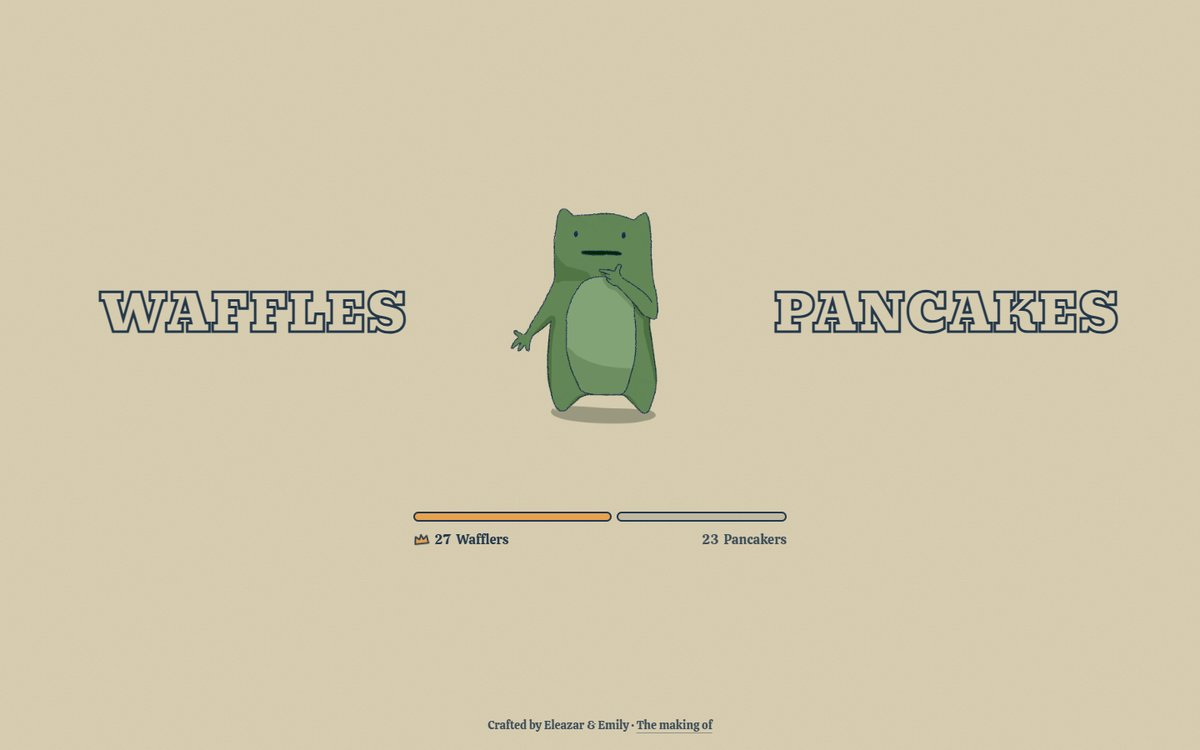
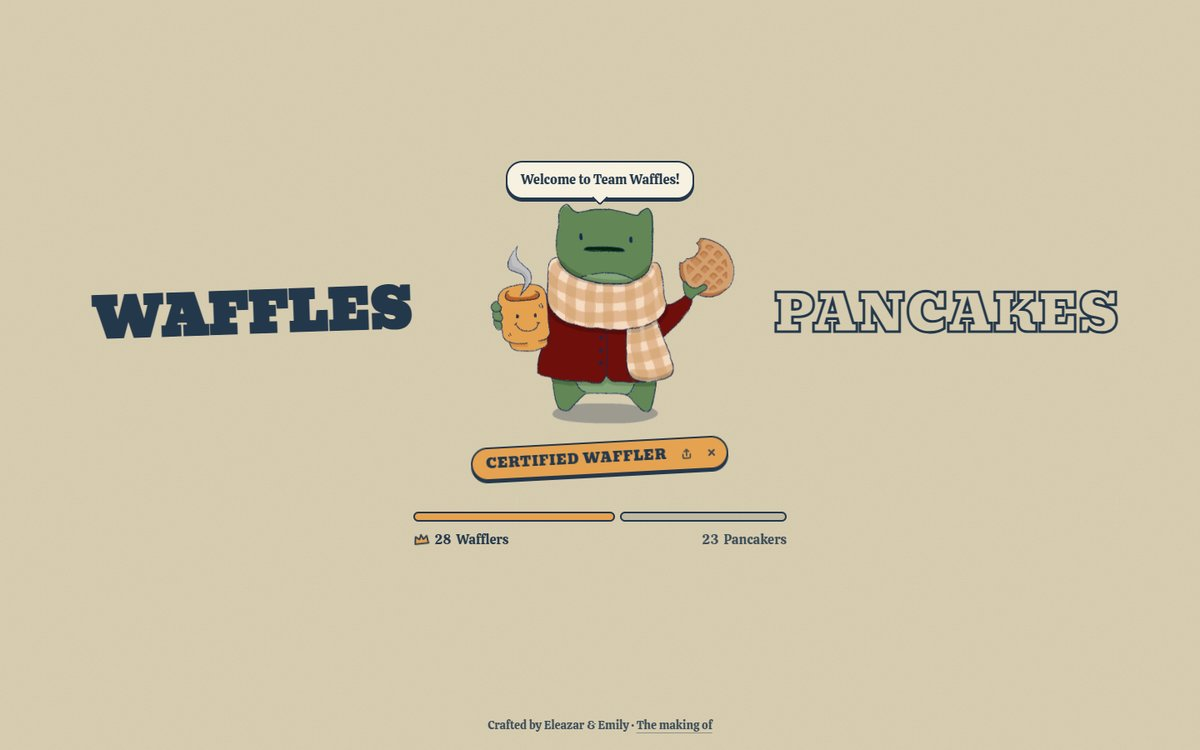
Spotlight four projects and rewrite README intro

diff --git a/README.md b/README.md
@@ -1,164 +1,112 @@
 # Hey, I'm Eleazar
-[Email](mailto:videna.psalmeleazar@gmail.com) • [LinkedIn](https://www.linkedin.com/in/pevidena/) • [Portfolio](https://psalm-eleazar.vercel.app/) • [X](https://twitter.com/psalmeleazar)
+[Portfolio](https://psalm-eleazar.vercel.app/) • [LinkedIn](https://www.linkedin.com/in/pevidena/) • [Email](mailto:videna.psalmeleazar@gmail.com) • [X](https://twitter.com/psalmeleazar)
 
-<h2 id="projects">Projects</h2>
+I'm a software engineering student at the University of Guelph, based in Toronto. My co-op terms have taken me from the factory floor to the bank, building software for manufacturing at ATS Corporation and working on technology research at BMO. As I finish my degree, I'm looking for where I can keep building real solutions for the people who use them.
 
-Things I've built on my own, during my internship, and at hackathons.
+## Spotlight
 
 <table>
   <tr>
     <td width="50%" valign="top">
       <a href="https://www.asetta.me"><img src="assets/asetta.jpg" alt="Asetta landing page with the headline Always ahead, never behind and a preview of the assessment dashboard" width="100%" /></a>
       <h3>Asetta</h3>
-      <p><sub><img src="assets/status-live.svg" width="11" height="11" alt="" />&nbsp; Live</sub></p>
+      <p><em>2025 to now</em></p>
       <p>
-        An academic planner that reads your course outlines and builds
-        a tracker of every assessment, due date and weight. Includes a
-        grade calculator, calendar export and email reminders.
+        An academic planner for students. Upload a course outline and
+        it pulls out every assessment, due date and weight, then keeps
+        your grades, calendar and deadline reminders in one place.
       </p>
       <p>
-        <sub>
-          Next.js · TypeScript · Firebase · Gemini · Tailwind CSS
-        </sub>
+        <code>Next.js</code> <code>TypeScript</code> <code>Firebase</code> <code>Gemini</code> <code>Tailwind CSS</code>
       </p>
       <p>
-        <a href="https://www.asetta.me">Visit Asetta →</a> &nbsp; · &nbsp;
-        <a href="https://github.com/P541M/asetta">Explore the source →</a>
+        <a href="https://www.asetta.me">asetta.me ↗</a> &nbsp;·&nbsp;
+        <a href="https://github.com/P541M/asetta">Source ↗</a>
       </p>
     </td>
-    <td width="50%" valign="top">
-      <a href="https://extractifycode.vercel.app"><img src="assets/extractify.jpg" alt="Extractify homepage with a GitHub repo input and a preview of filtered files turned into Markdown" width="100%" /></a>
-      <h3>Extractify</h3>
-      <p><sub><img src="assets/status-live.svg" width="11" height="11" alt="" />&nbsp; Live</sub></p>
-      <p>
-        Turns a GitHub repo or local folder into one Markdown block you
-        can paste into an AI assistant. Skips lockfiles, build output and
-        secrets, and shows a token estimate before you copy.
-      </p>
-      <p>
-        <sub>
-          Next.js · TypeScript · NextAuth · Firestore · Tailwind CSS
-        </sub>
-      </p>
-      <p>
-        <a href="https://extractifycode.vercel.app">Try Extractify →</a>
-      </p>
-    </td>
-  </tr>
-  <tr>
     <td width="50%" valign="top">
       <a href="https://bbd-disperse.vercel.app"><img src="assets/disperse.jpg" alt="Disperse landing page showing a sample delivery crew with driver and carrier pay" width="100%" /></a>
       <h3>Disperse</h3>
-      <p><sub><img src="assets/status-internship.svg" width="11" height="11" alt="" />&nbsp; Internship project · BoscoBoys Distributors</sub></p>
+      <p><em>Internship at BoscoBoys Distributors · 2024, refreshed in 2026</em></p>
       <p>
-        Payroll for newspaper delivery crews. Turns two weeks of daily
-        crew sheets into a spreadsheet for accounting and a PDF pay
-        statement for every driver and carrier.
+        Payroll for newspaper delivery crews. Two weeks of daily crew
+        sheets become an Excel sheet for accounting and a PDF pay
+        statement for every driver and carrier, with CPP, EI and tax
+        estimates for employees.
       </p>
       <p>
-        <sub>
-          React · Vite · Express · MongoDB · Tailwind CSS
-        </sub>
+        <code>React</code> <code>Express</code> <code>MongoDB</code> <code>Tailwind CSS</code> <code>Vitest</code>
       </p>
       <p>
-        <a href="https://bbd-disperse.vercel.app/demo">Try the demo →</a>
-      </p>
-    </td>
-    <td width="50%" valign="top">
-      <a href="https://boscoboys-distributors.vercel.app"><img src="assets/boscoboys.jpg" alt="BoscoBoys Distributors homepage with a freight truck and the headline Connecting Businesses, Bridging Distances" width="100%" /></a>
-      <h3>BoscoBoys Distributors</h3>
-      <p><sub><img src="assets/status-internship.svg" width="11" height="11" alt="" />&nbsp; Internship project · BoscoBoys Distributors</sub></p>
-      <p>
-        The public website for a GTA freight and distribution company,
-        in English and French with light and dark themes. Contact and
-        job application forms go straight to the office.
-      </p>
-      <p>
-        <sub>
-          React · Tailwind CSS · Express · Node.js
-        </sub>
-      </p>
-      <p>
-        <a href="https://boscoboys-distributors.vercel.app">Visit the website →</a>
+        <a href="https://bbd-disperse.vercel.app/demo">Try the demo ↗</a>
       </p>
     </td>
   </tr>
   <tr>
     <td width="50%" valign="top">
-      <a href="https://evoria-ochre.vercel.app"><img src="assets/evoria.jpg" alt="Evoria contents page listing five portraits next to a fragrance bottle" width="100%" /></a>
-      <h3>Evoria</h3>
-      <p><sub><img src="assets/status-live.svg" width="11" height="11" alt="" />&nbsp; Live</sub></p>
+      <a href="https://extractifycode.vercel.app"><img src="assets/extractify.jpg" alt="Extractify homepage with a GitHub repo input and a preview of filtered files turned into Markdown" width="100%" /></a>
+      <h3>Extractify</h3>
+      <p><em>2025, refreshed in 2026</em></p>
       <p>
-        Portraits in scent. Short written profiles of people close to me,
-        each paired with the fragrance chosen for them and why it suits
-        who they are.
+        I built this in early 2025, before coding agents could explore
+        a codebase on their own and sharing a project with an AI meant
+        copying files in one by one. Extractify turns a GitHub repo or
+        local folder into one block of code you can paste into any chat,
+        skipping lockfiles, build output and secrets, with a token count
+        before you copy.
       </p>
       <p>
-        <sub>
-          React · Vite · React Router · Tailwind CSS
-        </sub>
+        <code>Next.js</code> <code>TypeScript</code> <code>NextAuth</code> <code>Firestore</code> <code>Tailwind CSS</code>
       </p>
       <p>
-        <a href="https://evoria-ochre.vercel.app">Read Evoria →</a>
-      </p>
-    </td>
-    <td width="50%" valign="top">
-      <a href="https://waffles-or-pancakes.vercel.app"><img src="assets/waffles.jpg" alt="Waffles or Pancakes voting page with a hand-drawn frog between the two options and a live results bar" width="100%" /></a>
-      <h3>Waffles or Pancakes?!</h3>
-      <p><sub><img src="assets/status-live.svg" width="11" height="11" alt="" />&nbsp; Live</sub></p>
-      <p>
-        A tiny voting site for the breakfast debate. Pick a side and a
-        hand-drawn frog changes outfits, talks back and celebrates your
-        vote, with results updating live.
-      </p>
-      <p>
-        <sub>
-          React · Vite · Tailwind CSS · Upstash Redis · Vercel Functions
-        </sub>
-      </p>
-      <p>
-        <a href="https://waffles-or-pancakes.vercel.app">Cast your vote →</a>
+        <a href="https://extractifycode.vercel.app">extractifycode.vercel.app ↗</a>
       </p>
     </td>
-  </tr>
-  <tr>
     <td width="50%" valign="top">
       <a href="https://frijio.vercel.app"><img src="assets/frijio.jpg" alt="frij.io homepage with cards for fridge management, grocery lists and expense tracking" width="100%" /></a>
       <h3>frij.io</h3>
-      <p><sub><img src="assets/status-hackathon.svg" width="11" height="11" alt="" />&nbsp; Hackathon project · Best AI at Hack Canada</sub></p>
+      <p><em>Hack Canada 2025 · Best AI award · team of four</em></p>
       <p>
-        A shared kitchen for housemates: track what's in the fridge,
-        build a group grocery list and split the bill. Scans receipts
-        and suggests recipes from what you already have.
+        A shared fridge for housemates. Track what's inside, build one
+        grocery list together and split the bill. Scan a receipt to log
+        groceries, and get recipe ideas from what you already have.
       </p>
       <p>
-        <sub>
-          Next.js · TypeScript · Firebase · Google Vision · Perplexity
-        </sub>
+        <code>Next.js</code> <code>TypeScript</code> <code>Firebase</code> <code>Google Vision</code> <code>Perplexity</code>
       </p>
       <p>
-        <a href="https://frijio.vercel.app">Visit frij.io →</a> &nbsp; · &nbsp;
-        <a href="https://github.com/megdcosta/frijio">Explore the source →</a>
-      </p>
-    </td>
-    <td width="50%" valign="top">
-      <a href="https://convoco.vercel.app"><img src="assets/convoco.jpg" alt="Convoco about page with the headline Elevating the Art of Debate" width="100%" /></a>
-      <h3>Convoco</h3>
-      <p><sub><img src="assets/status-hackathon.svg" width="11" height="11" alt="" />&nbsp; Hackathon project</sub></p>
-      <p>
-        A place to practise debating. Open or join a debate room, argue
-        by voice or text, and get AI scoring and feedback on every
-        argument you make.
-      </p>
-      <p>
-        <sub>
-          Next.js · TypeScript · Firebase · Gemini · Cloud Speech-to-Text
-        </sub>
-      </p>
-      <p>
-        <a href="https://convoco.vercel.app">Visit Convoco →</a> &nbsp; · &nbsp;
-        <a href="https://github.com/Quoctynoob/Convoco">Explore the source →</a>
+        <a href="https://frijio.vercel.app">frijio.vercel.app ↗</a> &nbsp;·&nbsp;
+        <a href="https://github.com/megdcosta/frijio">Source ↗</a>
       </p>
     </td>
   </tr>
 </table>
+
+## Also made
+
+<table>
+  <tr>
+    <td width="25%" valign="top">
+      <a href="https://waffles-or-pancakes.vercel.app"><img src="assets/waffles.jpg" alt="Waffles or Pancakes after a vote: the frog in a scarf holding a waffle, saying Welcome to Team Waffles, with a Certified Waffler sticker" width="100%" /></a>
+      <p><strong><a href="https://waffles-or-pancakes.vercel.app">Waffles or Pancakes?!</a></strong><br />
+      <sub>A one-question breakfast poll, starring a frog drawn by Emily Chang.</sub></p>
+    </td>
+    <td width="25%" valign="top">
+      <a href="https://evoria-ochre.vercel.app"><img src="assets/evoria.jpg" alt="Evoria contents page listing five portraits next to a fragrance bottle" width="100%" /></a>
+      <p><strong><a href="https://evoria-ochre.vercel.app">Evoria</a></strong><br />
+      <sub>Portraits in scent: people close to me, each paired with a fragrance I chose for them.</sub></p>
+    </td>
+    <td width="25%" valign="top">
+      <a href="https://boscoboys-distributors.vercel.app"><img src="assets/boscoboys.jpg" alt="BoscoBoys Distributors homepage with a freight truck and the headline Connecting Businesses, Bridging Distances" width="100%" /></a>
+      <p><strong><a href="https://boscoboys-distributors.vercel.app">BoscoBoys Distributors</a></strong><br />
+      <sub>A revamped website for the company, built during my 2024 internship.</sub></p>
+    </td>
+    <td width="25%" valign="top">
+      <a href="https://convoco.vercel.app"><img src="assets/convoco.jpg" alt="Convoco about page with the headline Elevating the Art of Debate" width="100%" /></a>
+      <p><strong><a href="https://convoco.vercel.app">Convoco</a></strong><br />
+      <sub>Debate practice with AI moderation and fact-checking, built at GenAI Genesis 2025.</sub></p>
+    </td>
+  </tr>
+</table>
+
+<sub>Explore these projects in more depth on my <a href="https://psalm-eleazar.vercel.app/">portfolio</a>. If something here sparks an idea, <a href="mailto:videna.psalmeleazar@gmail.com">say hi</a>.</sub>
